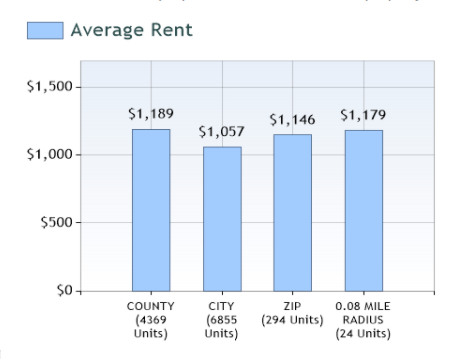
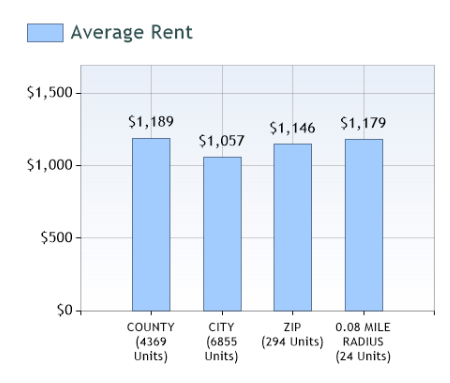
edit screenshot image
added a command to resize all screenshot image to a fixed size. added a command to open the resized image and crop four different images out of a single screenshot image for each bar in the bar chart.

diff --git a/rent.py b/rent.py
@@ -1,4 +1,4 @@
-import sys, os
+import sys, os, time
 import processImg
 sys.path.append(os.path.dirname(os.path.dirname(os.path.abspath(__file__))))
 import user
@@ -8,7 +8,7 @@ from selenium.webdriver.common.keys import Keys
 import time
 import pytesseract
 import cv2, xlrd 
-from PIL import Image
+from PIL import Image, ImageOps
 from array import array
 import urllib.request as getImage
 
@@ -43,8 +43,11 @@ PATH = "C:\Program Files (x86)\chromedriver.exe"
 
 options = webdriver.ChromeOptions()
 options.add_argument("--start-maximized")
-options.add_argument(f"--force-device-scale-factor={1.5}")
+options.add_argument(f"--force-device-scale-factor={1.1}")
 driver = webdriver.Chrome(PATH, options=options)
+
+
+
 driver.get("https://www.gosection8.com/logreg.aspx?user=landlord")
 
 
@@ -62,10 +65,11 @@ agree = driver.find_element_by_id("MainContentPlaceHolder_MainContent2_disclosur
 
 agree.send_keys(Keys.RETURN)
 
-
-# address = driver.find_element_by_id("MainContentPlaceHolder_MainContent2_AutocompleteAddress")
-# beds = driver.find_element_by_id("MainContentPlaceHolder_MainContent2_BedroomCount")
-
+size = (450, 360)
+size1 = (85,55,185,300)
+size2 = (185,55,255,300)
+size3 = (255,55,330,300)
+size4 = (330,55,430,300)
 
 for strAddress in addresses:
     for bed in range(4):
@@ -75,20 +79,31 @@ for strAddress in addresses:
         beds.clear()
         address.send_keys(strAddress)
         beds.send_keys(bed+1)
-        beds.send_keys(Keys.RETURN)    
+        beds.send_keys(Keys.RETURN)  
         image = driver.find_element_by_id("MainContentPlaceHolder_MainContent2_compareRentChart")
         image.screenshot("./charts/"+strAddress.replace(" ", "").replace(",", "")+"-"+str(bed+1)+".png")
-    
+        openImg = Image.open("./charts/"+strAddress.replace(" ", "").replace(",", "")+"-"+str(bed+1)+".png")
+        resizeImg = ImageOps.fit(openImg, size, Image.ANTIALIAS)
+        cropImg1 = resizeImg.crop(size1)
+        cropImg2 = resizeImg.crop(size2)
+        cropImg3 = resizeImg.crop(size3)
+        cropImg4 = resizeImg.crop(size4)
+        cropImg1.save("./charts/"+strAddress.replace(" ", "").replace(",", "")+"-"+str(bed+1)+"-1"+".png")
+        cropImg2.save("./charts/"+strAddress.replace(" ", "").replace(",", "")+"-"+str(bed+1)+"-2"+".png")
+        cropImg3.save("./charts/"+strAddress.replace(" ", "").replace(",", "")+"-"+str(bed+1)+"-3"+".png")
+        cropImg4.save("./charts/"+strAddress.replace(" ", "").replace(",", "")+"-"+str(bed+1)+"-4"+".png")
 
-# address.send_keys("5574 Waterman Blvd, Saint Louis, MO 63112")
 
-# beds.send_keys("4")
-# beds.send_keys(Keys.RETURN)
 
-# image = driver.find_element_by_id("MainContentPlaceHolder_MainContent2_compareRentChart")
 
-# image.screenshot("myimage.png")
-
+# driver.get("https://brandfolder.com/workbench/extract-text-from-image")
+# time.sleep(5)
+# upload = driver.find_element_by_class_name("fsp-drop-pane__input")
+# upload.send_keys(os.getcwd() + "/a.png")
+# time.sleep(5)
+# textEl = driver.find_element_by_id("extracted_text")
+# text = textEl.text
+# print(text)
 
 
 
